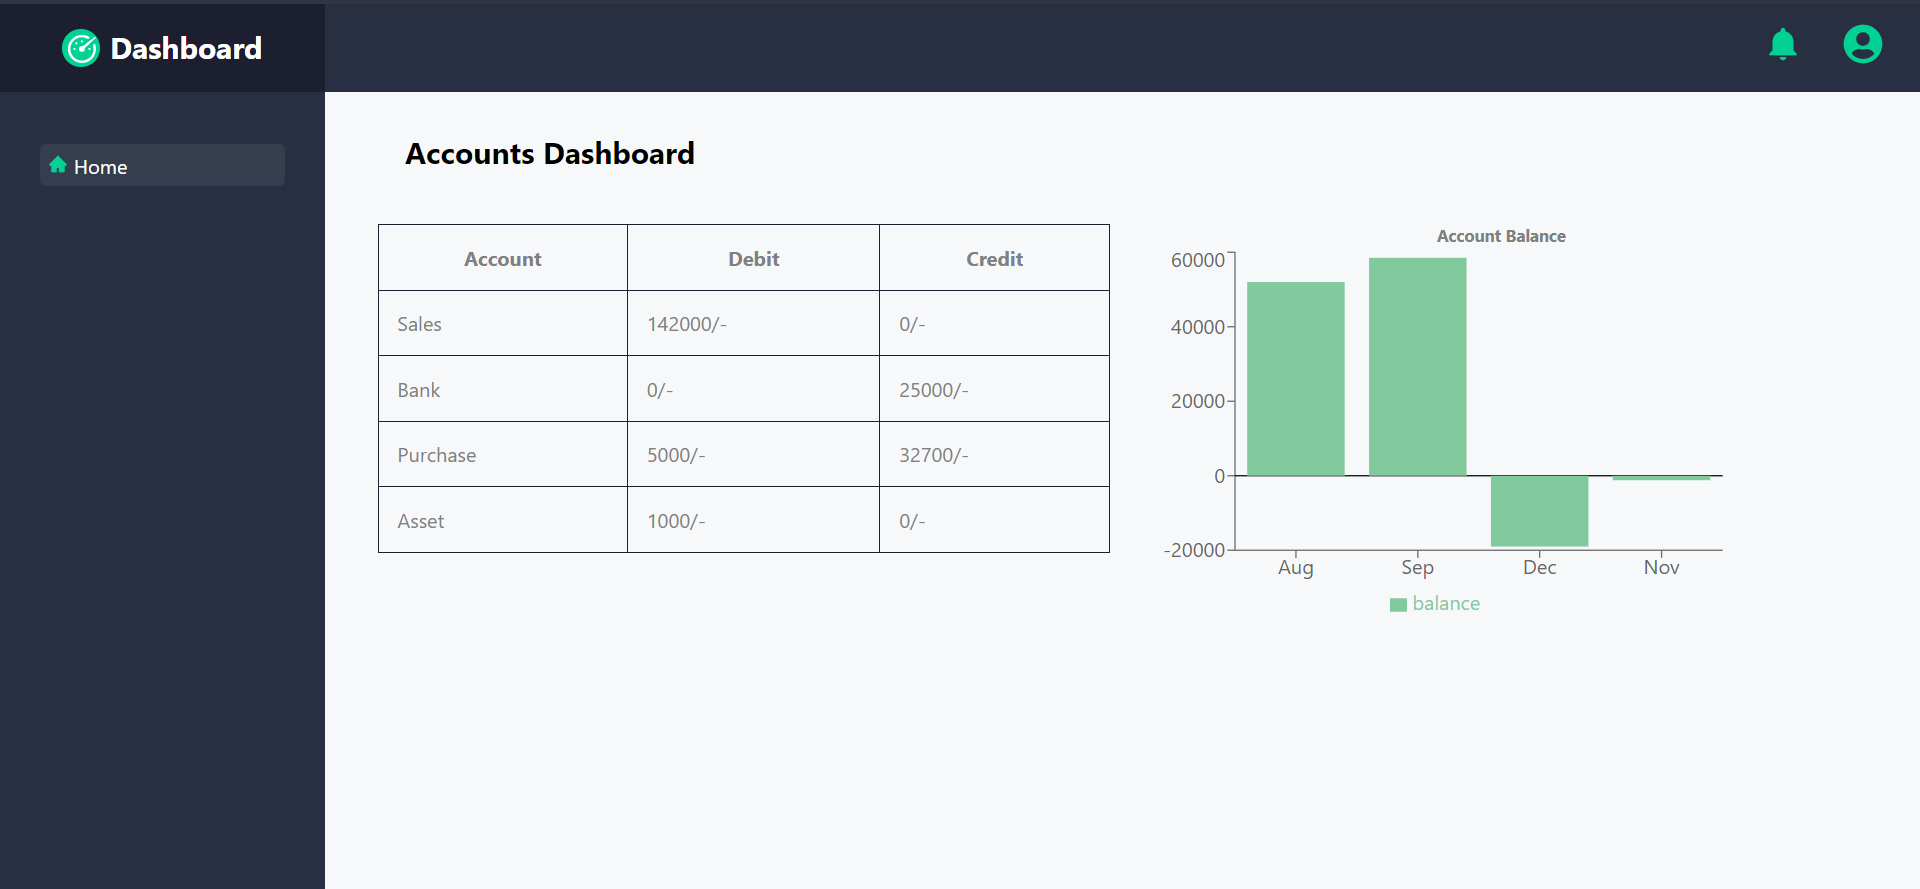
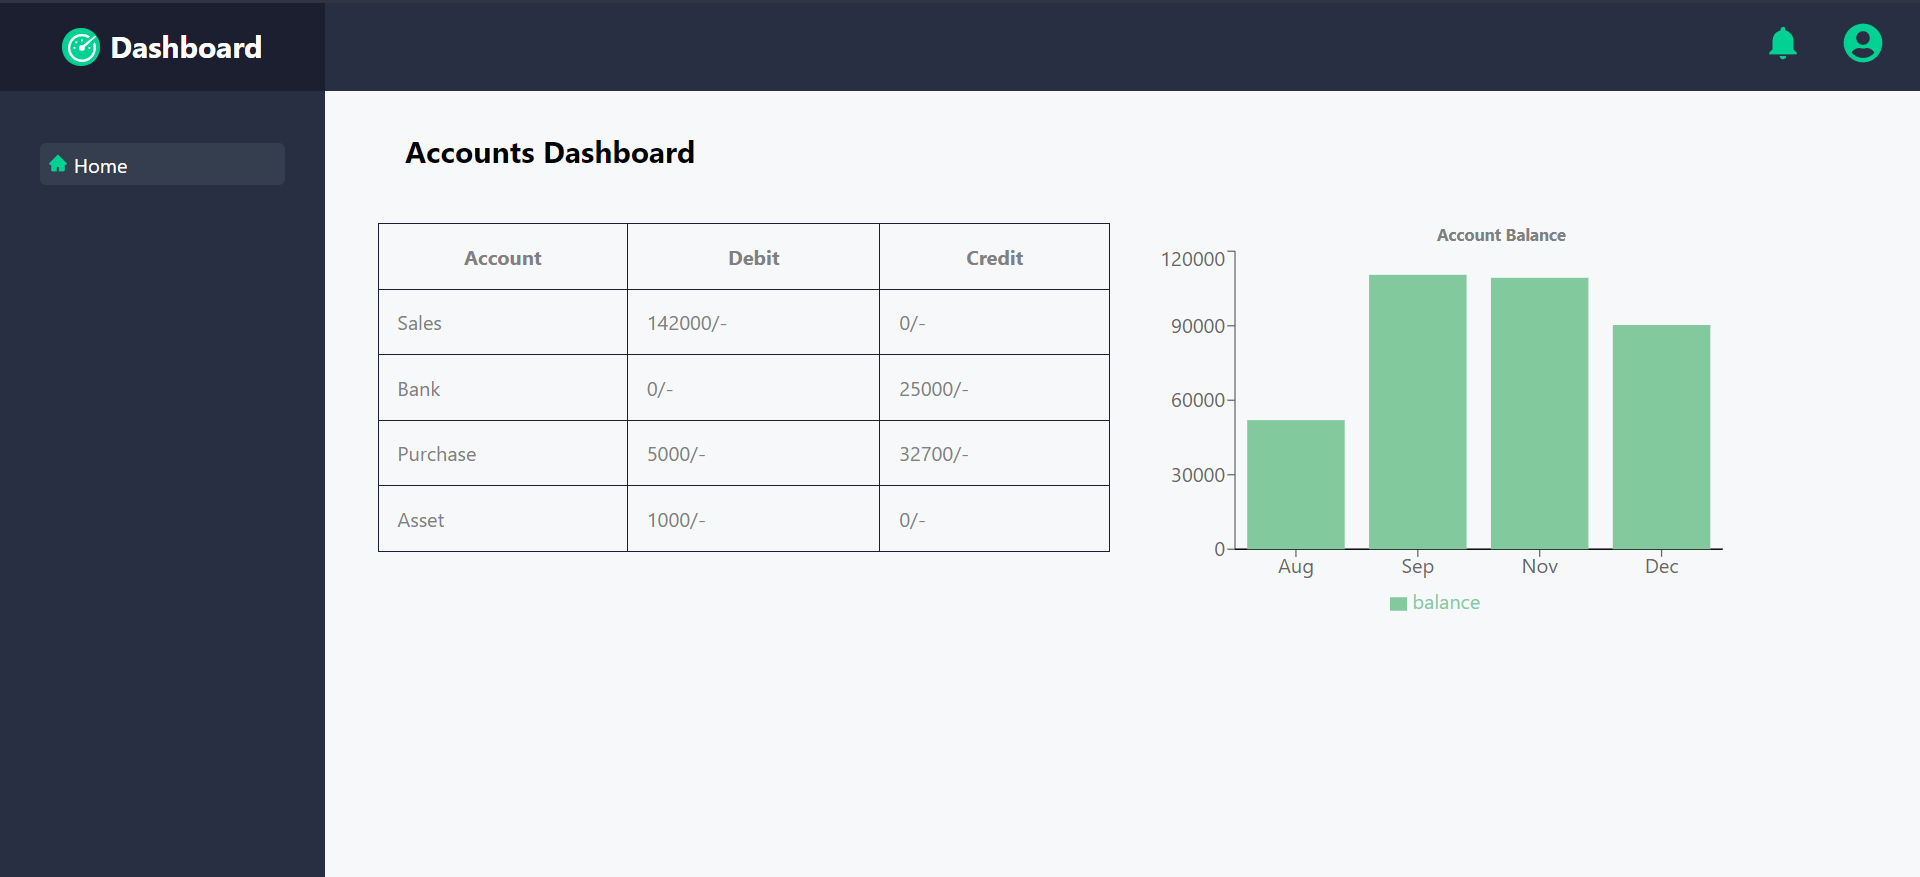
Finished

diff --git a/src/components/Chart/Chart.jsx b/src/components/Chart/Chart.jsx
@@ -2,20 +2,35 @@ import React from 'react'
 import { BarChart, Bar, XAxis, YAxis, Tooltip, Legend, ReferenceLine } from "recharts";
 
 const Chart = ({ transactions }) => {
-    const monthlyBalance = transactions.reduce((balance, transactions) => {
-        const { month, debit, credit } = transactions
-        if (!balance[month]) {
-            balance[month] = 0
-        }
-        balance[month] += debit - credit
-        return balance
-    }, {})
-    console.log(monthlyBalance, 'monthlyBalance');
 
-    const data = Object.entries(monthlyBalance).map(([month, balance]) => ({
-        name: month,
-        balance: balance
-    }))
+    const amtDifference = transactions.reduce((balance, transaction) => {
+        const { month, debit, credit } = transaction;
+        if (!balance[month]) {
+            balance[month] = 0;
+        }
+        balance[month] += debit - credit;
+        return balance;
+    }, {});
+
+    const sortedMonth = Object.entries(amtDifference)
+        .map(([month, balance]) => ({ month, balance }))
+        .sort((a, b) => {
+            const months = ['Jan', 'Feb', 'Mar', 'Apr', 'May', 'Jun', 'Jul', 'Aug', 'Sep', 'Oct', 'Nov', 'Dec'];
+            return months.indexOf(a.month) - months.indexOf(b.month);
+        });
+
+    let balanceAmt = 0;
+    const accBalance = sortedMonth.map(({ month, balance }) => {
+        balanceAmt += balance;
+        return { month, balance: balanceAmt };
+    });
+
+    console.log(accBalance);
+
+    const data = accBalance.map(item => ({
+        name: item.month,
+        balance: item.balance
+    }));
 
     return (
         <>

diff --git a/src/components/Table/Table.jsx b/src/components/Table/Table.jsx
@@ -10,7 +10,7 @@ const Table = ({ transactions }) => {
         acc[account].credit = acc[account].credit + credit
         return acc
     }, {})
-    console.log(accountTotal);
+
     const data = Object.entries(accountTotal)
     return (
         <table style={{ width: '100%' }} border="2">
